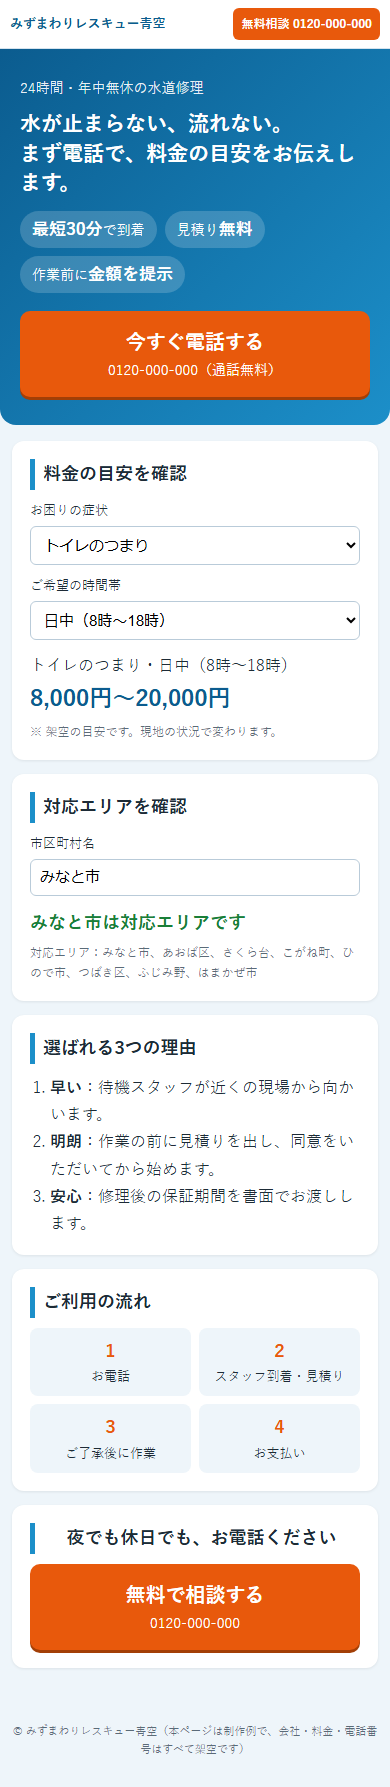
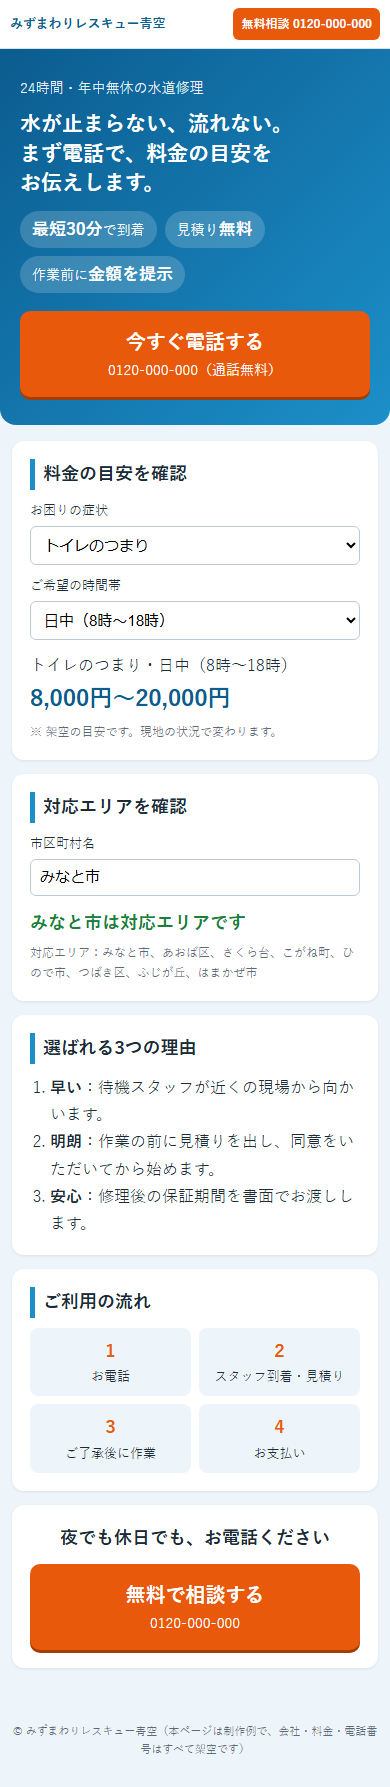
見出しの改行位置・最終見出しの体裁・架空地名を調整

diff --git a/docs/index.html b/docs/index.html
@@ -15,7 +15,7 @@
 <main>
 <section class="hero">
   <p class="eyebrow">24時間・年中無休の水道修理</p>
-  <h1>水が止まらない、流れない。<br>まず電話で、料金の目安をお伝えします。</h1>
+  <h1><span class="nw">水が止まらない、</span><span class="nw">流れない。</span><br><span class="nw">まず電話で、</span><span class="nw">料金の目安を</span><span class="nw">お伝えします。</span></h1>
   <ul class="points">
     <li><b>最短30分</b>で到着</li>
     <li>見積り<b>無料</b></li>

diff --git a/docs/style.css b/docs/style.css
@@ -35,3 +35,5 @@ footer{text-align:center;font-size:11px;color:#5b6b78;padding:16px 12px 28px}
   .result strong{font-size:23px}
   .bar{padding:8px 10px}.logo{font-size:13px}.tel-sm{font-size:12px;padding:6px 8px}
 }
+.nw{display:inline-block}
+.final h2{border-left:none;padding-left:0;text-align:center}

diff --git a/docs/lp.js b/docs/lp.js
@@ -17,7 +17,7 @@
 
   const AREAS = [
     "みなと市", "あおば区", "さくら台", "こがね町", "ひので市", "つばき区",
-    "ふじみ野", "はまかぜ市",
+    "ふじが丘", "はまかぜ市",
   ];
 
   function estimate(troubleId, slotId) {
